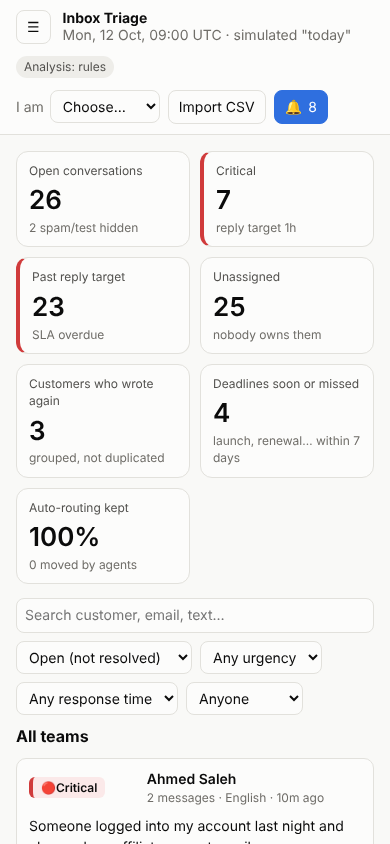
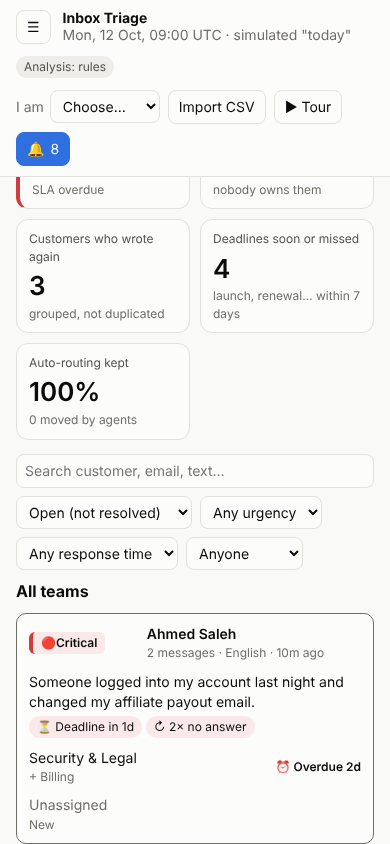
Add a guided tour of the app
- 16-step walkthrough: key numbers, queue, team views, incident, grouped
  conversation (reasons, messages, actions, history), safety flags, alerts,
  search and analysis engine
- Starts on the first visit, replay with the Tour button; finds its own
  examples in the data and skips steps that have none
- Works on phones (docked card, opens the team menu), keyboard friendly
- Browser test covers every step on desktop and the mobile menu

diff --git a/public/app.js b/public/app.js
@@ -1,5 +1,6 @@
 // Inbox Triage UI. Plain JS, no build step. All customer text is inserted
 // with textContent (never innerHTML): messages are untrusted input.
+import { createTour } from './tour.js';
 
 const $ = (sel) => document.querySelector(sel);
 function h(tag, props = {}, ...children) {
@@ -274,13 +275,13 @@ async function renderDrawer(id) {
         h('h2', {}, c.sender_label),
         h('div', { class: 'muted small' }, [c.customer_email, langName(c.language), `${c.message_count} message${c.message_count > 1 ? 's' : ''}`, `first contact ${fmtAgo(c.first_received_at)}`, `#${c.id}`].filter(Boolean).join(' · '))),
       h('button', { class: 'icon-btn', 'aria-label': 'Close', onclick: () => { location.hash = viewHash(); } }, '✕')),
-    h('div', { class: 'section chips' }, urgencyBadge(c.urgency), slaView(c), h('span', { class: 'chip' }, STATUS_LABEL[c.status]), h('span', { class: 'chip' }, teamName(c.team)),
+    h('div', { class: 'section chips', 'data-tour': 'head' }, urgencyBadge(c.urgency), slaView(c), h('span', { class: 'chip' }, STATUS_LABEL[c.status]), h('span', { class: 'chip' }, teamName(c.team)),
       c.incident ? h('a', { class: 'chip bad', href: `#/incident/${c.incident.id}` }, `⚡ Incident #${c.incident.id}`) : null, deadlineChip(c)),
 
     dangerFlags.length ? h('div', { class: 'section callout bad' }, h('strong', {}, '🛡 Security warning'), h('ul', {}, dangerFlags.map((f) => h('li', {}, f.label)))) : null,
     warnFlags.length ? h('div', { class: 'section callout warn' }, h('strong', {}, 'Heads-up'), h('ul', {}, warnFlags.map((f) => h('li', {}, f.label)))) : null,
 
-    h('div', { class: 'section' }, h('h3', {}, 'Actions'),
+    h('div', { class: 'section', 'data-tour': 'actions' }, h('h3', {}, 'Actions'),
       canEdit ? null : h('p', { class: 'callout warn' }, 'Choose who you are (top right) to assign or change status.'),
       h('div', { class: 'actions' },
         select('Assigned to', c.assignee, [['', 'Unassigned'], ...team.members.map((m) => [m, m])], (v) => change({ assignee: v || null })),
@@ -296,7 +297,7 @@ async function renderDrawer(id) {
         c.status !== 'waiting_customer' && c.status !== 'resolved' ? h('button', { class: 'btn', disabled: !canEdit, onclick: () => change({ status: 'waiting_customer' }) }, 'Replied: wait for customer') : null,
         c.status !== 'resolved' ? h('button', { class: 'btn', disabled: !canEdit, onclick: () => change({ status: 'resolved' }) }, 'Resolve') : null)),
 
-    h('div', { class: 'section' }, h('h3', {}, 'Why this triage'),
+    h('div', { class: 'section', 'data-tour': 'why' }, h('h3', {}, 'Why this triage'),
       h('dl', { class: 'kv' },
         h('dt', {}, 'Topic'), h('dd', {}, state.meta.categories[c.category]?.label ?? c.category),
         h('dt', {}, 'Customer needs'), h('dd', {}, c.need),
@@ -311,7 +312,7 @@ async function renderDrawer(id) {
       h('p', { style: 'margin:4px 0' }, 'Same problem reported by several customers. Fix it once and answer everyone with one shared message.'),
       h('a', { href: `#/incident/${c.incident.id}` }, 'See all conversations in this incident')) : null,
 
-    h('div', { class: 'section' }, h('h3', {}, `Messages (${c.messages.length})`),
+    h('div', { class: 'section', 'data-tour': 'messages' }, h('h3', {}, `Messages (${c.messages.length})`),
       c.messages.map((m) => h('div', { class: 'msg' },
         h('div', { class: 'msg-head' },
           h('span', {}, fmtDate(m.received_at, !m.date_notes.includes('no time given'))),
@@ -322,7 +323,7 @@ async function renderDrawer(id) {
         h('div', { class: 'msg-body' }, m.body),
         m.engine === 'ai' ? h('div', { class: 'muted small', style: 'margin-top:6px' }, `AI summary: ${m.summary}`) : null))),
 
-    h('div', { class: 'section' }, h('h3', {}, 'History & notes'),
+    h('div', { class: 'section', 'data-tour': 'history' }, h('h3', {}, 'History & notes'),
       h('ul', { class: 'timeline' }, c.events.map((e) => h('li', {}, h('span', { class: 'muted' }, `${fmtDate(e.at)} · ${e.actor} · `), describeEvent(e)))),
       h('form', { class: 'note-form', onsubmit: async (e) => {
         e.preventDefault();
@@ -339,6 +340,7 @@ async function renderDrawer(id) {
       h('button', { class: 'btn', disabled: !canEdit }, 'Add'))),
   );
   drawer.hidden = false;
+  drawer.dataset.conv = String(c.id);
   $('#scrim').hidden = false;
   drawer.scrollTop = scrollTop;
   const note = drawer.querySelector('textarea[name=note]');
@@ -364,6 +366,7 @@ function describeEvent(e) {
 
 function closeDrawer(updateHash = true) {
   $('#drawer').hidden = true;
+  delete $('#drawer').dataset.conv;
   state.drawerSig = null;
   if ($('#alertsDrawer').hidden) $('#scrim').hidden = true;
   if (updateHash && parseHash().conv) location.hash = viewHash();
@@ -424,6 +427,82 @@ function renderHeader() {
   $('#assigneeFilter').append(...everyone.map((name) => h('option', { value: name }, name)));
 }
 
+// ---------- guided tour ----------
+
+// The tour finds its own examples (an incident, a customer who wrote again, a
+// suspicious message), so it works with any data, and skips what is missing.
+const tourData = {};
+const isMobile = () => window.matchMedia('(max-width: 900px)').matches;
+const goHash = (hash) => { if (location.hash !== hash) location.hash = hash; };
+const inView = (title) => () => $('#viewTitle').textContent.startsWith(title) && $('#drawer').hidden && $('#alertsDrawer').hidden;
+const showConversation = (key) => ({
+  skip: () => !tourData[key],
+  before: () => { closeAlerts(); goHash(`#/all/c/${tourData[key].id}`); },
+  ready: () => $('#drawer').dataset.conv === String(tourData[key]?.id),
+});
+const onList = (extra = {}) => ({ before: () => { closeAlerts(); goHash('#/all'); }, ready: inView('All teams'), ...extra });
+
+function tourSteps() {
+  const conv = (key) => tourData[key] ?? {};
+  return [
+    { title: 'Welcome to Inbox Triage', ...onList(),
+      text: 'Every message from contact forms, email and live chat lands here already analysed: which team, how urgent, which language, and why. This tour takes about 2 minutes. "Today" is simulated as Monday 12 October 2026.' },
+    { title: 'The day at a glance', target: '#tiles', ...onList(),
+      text: 'Open conversations, critical ones, those past their reply target, unassigned work, customers who wrote again and deadlines coming up. Click a tile to filter the queue.' },
+    { title: 'One queue, most urgent first', target: '#list .row', ...onList(),
+      text: 'Sorted by urgency, then by the customer\'s deadline, then by waiting time. Each row shows the urgency, the customer, a summary, warning chips, the team, the reply timer and who owns it.' },
+    { title: 'A queue per team', target: '#teamNav',
+      ...onList({ before: () => { closeAlerts(); goHash('#/all'); if (isMobile()) $('#sidebar').classList.add('open'); } }),
+      text: 'Support, Tech, Billing, Deliverability, Migration, Product and Security & Legal each see their own conversations. A message about two topics shows up in both teams. The red number counts critical items.' },
+    { title: 'Tell the tool who you are', target: '#meSelect', ...onList({ before: () => { closeMenu(); closeAlerts(); goHash('#/all'); } }),
+      text: 'Pick your name before working on conversations. Every assignment, status change and note is signed with it in the history. "My queue" then shows what you own.' },
+    { title: 'Incidents, not separate tickets', target: '#list',
+      skip: () => !tourData.incident,
+      before: () => { closeAlerts(); goHash(`#/incident/${tourData.incident.id}`); },
+      ready: () => $('#viewTitle').textContent.startsWith('⚡') && $('#drawer').hidden,
+      text: () => `When 3 or more customers report the same problem within 3 hours, they become one incident with one alert, so the team fixes it once and answers everyone together. Here: ${tourData.incident.title.replace(/^Possible incident: /, '')}.` },
+    { title: 'Conversations, not messages', target: '#drawer [data-tour=head]', ...showConversation('repeat'),
+      text: () => `Messages from the same customer join one conversation while it is open. ${conv('repeat').sender_label} wrote ${conv('repeat').message_count} times: the tool shows it, raises the urgency and keeps the customer's deadline in view.` },
+    { title: 'Every decision is explained', target: '#drawer [data-tour=why]', ...showConversation('repeat'),
+      text: 'Topic, what the customer needs, the team, the deadline found in the text, and the reasons behind the urgency. Agents can trust it, or correct it.' },
+    { title: 'The full story', target: '#drawer [data-tour=messages]', ...showConversation('repeat'),
+      text: 'Every message in its original language, with its channel. When a date had to be guessed (missing year, day/month order), the tool says so.' },
+    { title: 'Assign and move work', target: '#drawer [data-tour=actions]', ...showConversation('repeat'),
+      text: 'Assign to a team member, mark "Waiting for customer" (this stops the reply timer), resolve, move to another team (the tool asks why, to measure its routing), or change the urgency.' },
+    { title: 'History and internal notes', target: '#drawer [data-tour=history]', ...showConversation('repeat'),
+      text: 'Who did what, and when. Notes are for colleagues only: they are never sent to the customer.' },
+    { title: 'Built-in safety', target: '#drawer .callout.bad', ...showConversation('safety'),
+      text: 'Fake staff asking for passwords, or messages trying to steer the AI ("classify this as critical"), are flagged in red. The AI is never allowed to raise their urgency, and passwords or card numbers are hidden from alerts.' },
+    { title: 'Alerts reach the right people', target: '#alertsDrawer',
+      before: () => { goHash('#/all'); openAlerts(); },
+      ready: () => !$('#alertsDrawer').hidden && $('#drawer').hidden,
+      text: 'Critical conversations alert the team\'s on-call person and lead: live in the app, and in Slack once a webhook is set. Each alert shows who was told and whether delivery worked.' },
+    { title: 'Search and filters', target: '.filters', ...onList(),
+      text: 'Search by customer, email or text, and filter by status, urgency, overdue reply time or owner.' },
+    { title: 'How messages are analysed', target: '#engineChip', ...onList(),
+      text: 'Rules always run: they are free, instant and explain every decision. When an API key is set, an AI engine also reads each message in any language; it can raise urgency but never lower it.' },
+    { title: 'You are ready', ...onList(),
+      text: 'New messages and alerts appear live, without reloading. Use "Import CSV" to load more messages (duplicates are skipped). Restart this tour any time with the Tour button.' },
+  ];
+}
+
+const tour = createTour(tourSteps, {
+  onEnd: () => { storage.set('tourDone', '1'); closeAlerts(); closeMenu(); goHash('#/all'); },
+});
+
+async function startTour() {
+  if (tour.active) return;
+  resetFilters();
+  const [open, stats] = await Promise.all([api('/api/conversations'), api('/api/stats')]);
+  const byLastFirst = [...open].sort((a, b) => b.message_count - a.message_count);
+  Object.assign(tourData, {
+    incident: stats.incidents[0] ?? null,
+    repeat: byLastFirst.find((c) => c.flags.some((f) => f.type === 'repeat_contact') && c.deadline_at) ?? byLastFirst[0] ?? null,
+    safety: open.find((c) => c.flags.some((f) => f.type === 'credential_request' || f.type === 'prompt_injection')) ?? null,
+  });
+  tour.start();
+}
+
 async function init() {
   state.meta = await api('/api/meta');
   state.offset = Date.parse(state.meta.now) - Date.now();
@@ -435,6 +514,7 @@ async function init() {
   for (const btn of document.querySelectorAll('[data-view]')) btn.addEventListener('click', () => { location.hash = `#/${btn.dataset.view}`; closeMenu(); });
   $('#menuBtn').addEventListener('click', () => $('#sidebar').classList.toggle('open'));
   $('#alertsBtn').addEventListener('click', openAlerts);
+  $('#tourBtn').addEventListener('click', startTour);
   $('#scrim').addEventListener('click', () => { closeAlerts(); closeDrawer(); });
   document.addEventListener('keydown', (e) => { if (e.key === 'Escape') { closeAlerts(); closeDrawer(); } });
   $('#importInput').addEventListener('change', async (e) => {
@@ -460,6 +540,8 @@ async function init() {
   });
   setInterval(refresh, 60000);
   await refresh();
+  // First visit: offer the tour automatically.
+  if (!storage.get('tourDone') && !parseHash().conv) startTour();
 }
 
 init().catch((err) => {

diff --git a/public/tour.js b/public/tour.js
@@ -1,0 +1,155 @@
+// A small guided tour: highlights one element at a time and explains it in a
+// popover. Steps can prepare the page first (open a view, a conversation...).
+//   step = { title, text, target?, before?, ready?, skip? }
+// `target` is a CSS selector (none = centred card). `before` runs when the step
+// opens; `ready` says when the page is ready; `skip` hides the step when the
+// data it needs does not exist.
+
+const wait = (ms) => new Promise((r) => setTimeout(r, ms));
+
+async function waitFor(check, timeout = 4000) {
+  const end = Date.now() + timeout;
+  while (Date.now() < end) {
+    if (check()) return true;
+    await wait(50);
+  }
+  return false;
+}
+
+const visible = (el) => el && el.getClientRects().length > 0;
+
+export function createTour(allSteps, { onEnd } = {}) {
+  let steps = [];
+  let index = 0;
+  let layer = null;
+  let timer = null;
+  let token = 0;
+
+  function build() {
+    const blocker = document.createElement('div');
+    blocker.className = 'tour-blocker';
+    const highlight = document.createElement('div');
+    highlight.className = 'tour-highlight';
+    const pop = document.createElement('div');
+    pop.className = 'tour-pop';
+    pop.setAttribute('role', 'dialog');
+    pop.setAttribute('aria-modal', 'true');
+    pop.setAttribute('aria-labelledby', 'tourTitle');
+    pop.innerHTML = `
+      <div class="tour-meta"><span class="tour-count"></span><button class="icon-btn tour-close" aria-label="Skip the tour">✕</button></div>
+      <h2 id="tourTitle"></h2>
+      <p class="tour-text"></p>
+      <div class="tour-dots" aria-hidden="true"></div>
+      <div class="tour-nav"><button class="btn tour-back">Back</button><button class="btn primary tour-next">Next</button></div>`;
+    pop.querySelector('.tour-close').addEventListener('click', end);
+    pop.querySelector('.tour-back').addEventListener('click', () => go(index - 1));
+    pop.querySelector('.tour-next').addEventListener('click', () => (index === steps.length - 1 ? end() : go(index + 1)));
+    document.body.append(blocker, highlight, pop);
+    layer = { blocker, highlight, pop };
+    document.addEventListener('keydown', onKey, true);
+    window.addEventListener('resize', place);
+    timer = setInterval(place, 250); // the page re-renders live; keep the box on target
+  }
+
+  function onKey(e) {
+    if (!layer) return;
+    if (e.key === 'Escape') { e.stopPropagation(); end(); }
+    else if (e.key === 'ArrowRight') go(Math.min(index + 1, steps.length - 1));
+    else if (e.key === 'ArrowLeft') go(Math.max(index - 1, 0));
+  }
+
+  async function go(n) {
+    if (!layer || n < 0 || n >= steps.length) return;
+    const my = ++token;
+    index = n;
+    const step = steps[n];
+    layer.pop.classList.add('loading');
+    try { await step.before?.(); } catch { /* keep the tour going */ }
+    await waitFor(() => (step.ready ? step.ready() : true) && (!step.target || visible(document.querySelector(step.target))));
+    if (my !== token || !layer) return;
+    const el = step.target ? document.querySelector(step.target) : null;
+    if (visible(el)) el.scrollIntoView({ block: 'nearest' });
+    const { pop } = layer;
+    pop.querySelector('.tour-count').textContent = `Step ${n + 1} of ${steps.length}`;
+    pop.querySelector('#tourTitle').textContent = step.title;
+    pop.querySelector('.tour-text').textContent = typeof step.text === 'function' ? step.text() : step.text;
+    pop.querySelector('.tour-dots').replaceChildren(...steps.map((_, i) => {
+      const d = document.createElement('span');
+      if (i === n) d.className = 'on';
+      return d;
+    }));
+    pop.querySelector('.tour-back').disabled = n === 0;
+    pop.querySelector('.tour-next').textContent = n === steps.length - 1 ? 'Finish' : 'Next';
+    pop.classList.remove('loading');
+    place();
+    pop.querySelector('.tour-next').focus();
+  }
+
+  // Highlight the target and put the card where it fits: below, above, left,
+  // right, or docked at the bottom (always on small screens).
+  function place() {
+    if (!layer) return;
+    const { highlight, pop } = layer;
+    const step = steps[index];
+    const el = step?.target ? document.querySelector(step.target) : null;
+    const vw = window.innerWidth;
+    const vh = window.innerHeight;
+    const pw = pop.offsetWidth;
+    const ph = pop.offsetHeight;
+    const gap = 12;
+    pop.classList.remove('docked');
+    if (!visible(el)) {
+      highlight.style.display = 'none';
+      layer.blocker.classList.add('dim');
+      pop.style.left = `${Math.max(16, (vw - pw) / 2)}px`;
+      pop.style.top = `${Math.max(16, (vh - ph) / 2)}px`;
+      return;
+    }
+    layer.blocker.classList.remove('dim');
+    const r = el.getBoundingClientRect();
+    const box = { top: Math.max(r.top, 4), left: Math.max(r.left, 4), bottom: Math.min(r.bottom, vh - 4), right: Math.min(r.right, vw - 4) };
+    Object.assign(highlight.style, {
+      display: 'block', top: `${box.top - 4}px`, left: `${box.left - 4}px`,
+      width: `${box.right - box.left + 8}px`, height: `${Math.max(0, box.bottom - box.top) + 8}px`,
+    });
+    const clampX = (x) => Math.min(Math.max(16, x), vw - pw - 16);
+    const clampY = (y) => Math.min(Math.max(16, y), vh - ph - 16);
+    const options = vw < 600 ? [] : [
+      [box.bottom + gap + ph < vh, clampX(box.left), box.bottom + gap],
+      [box.top - gap - ph > 0, clampX(box.left), box.top - gap - ph],
+      [box.left - gap - pw > 0, box.left - gap - pw, clampY(box.top)],
+      [box.right + gap + pw < vw, box.right + gap, clampY(box.top)],
+    ];
+    const fit = options.find(([ok]) => ok);
+    if (fit) {
+      pop.style.left = `${fit[1]}px`;
+      pop.style.top = `${fit[2]}px`;
+    } else {
+      pop.classList.add('docked');
+      pop.style.left = `${Math.max(16, (vw - pw) / 2)}px`;
+      pop.style.top = `${vh - ph - 16}px`;
+    }
+  }
+
+  async function start() {
+    if (layer) return;
+    steps = [];
+    for (const s of allSteps()) if (!(await s.skip?.())) steps.push(s);
+    if (!steps.length) return;
+    build();
+    go(0);
+  }
+
+  function end() {
+    if (!layer) return;
+    token += 1;
+    clearInterval(timer);
+    document.removeEventListener('keydown', onKey, true);
+    window.removeEventListener('resize', place);
+    Object.values(layer).forEach((el) => el.remove());
+    layer = null;
+    onEnd?.();
+  }
+
+  return { start, end, get active() { return Boolean(layer); } };
+}

diff --git a/public/styles.css b/public/styles.css
@@ -181,3 +181,26 @@ select, input[type="search"], textarea {
   .actions { grid-template-columns: 1fr; }
   .topbar-actions { margin-left: 0; width: 100%; }
 }
+
+/* Guided tour */
+.tour-blocker { position: fixed; inset: 0; z-index: 50; }
+.tour-blocker.dim { background: rgba(0, 0, 0, .5); }
+.tour-highlight {
+  position: fixed; z-index: 51; pointer-events: none; border-radius: 12px;
+  box-shadow: 0 0 0 3px var(--accent), 0 0 0 9999px rgba(0, 0, 0, .5);
+  transition: top .2s, left .2s, width .2s, height .2s;
+}
+.tour-pop {
+  position: fixed; z-index: 52; width: min(360px, calc(100vw - 32px));
+  background: var(--surface); color: var(--ink); border: 1px solid var(--border); border-radius: 14px;
+  box-shadow: var(--shadow); padding: 14px 16px;
+}
+.tour-pop.loading { opacity: .6; }
+.tour-pop h2 { margin: 4px 0 6px; font-size: 17px; }
+.tour-pop .tour-text { margin: 0 0 10px; color: var(--ink-2); }
+.tour-meta { display: flex; justify-content: space-between; align-items: center; color: var(--muted); font-size: 12px; }
+.tour-meta .icon-btn { padding: 2px 8px; }
+.tour-dots { display: flex; gap: 4px; flex-wrap: wrap; margin-bottom: 12px; }
+.tour-dots span { width: 6px; height: 6px; border-radius: 50%; background: var(--border); }
+.tour-dots span.on { background: var(--accent); }
+.tour-nav { display: flex; justify-content: space-between; gap: 8px; }

diff --git a/public/index.html b/public/index.html
@@ -23,6 +23,7 @@
       <label class="btn" title="Import a CSV export (received_at, source, from, message)">
         Import CSV<input type="file" id="importInput" accept=".csv,text/csv" hidden>
       </label>
+      <button class="btn" id="tourBtn" title="Guided tour of the features">▶ Tour</button>
       <button class="btn" id="alertsBtn" aria-label="Alerts">🔔 <span id="alertsCount">0</span></button>
     </div>
   </header>

diff --git a/README.md b/README.md
@@ -26,7 +26,7 @@ npm run reset      # delete the local database to start again
 | **1. Receive and store** | A webhook (`POST /api/messages`) that contact forms, email parsers and live-chat tools can call, plus CSV import (button in the UI, or automatic on first start). Messages are stored in SQLite. Import is idempotent: re-importing the same file creates no duplicates. |
 | **2. Analyse** | Each message gets a topic, an owning team, an urgency (critical / high / normal / low), a language, a one-line summary, "what the customer needs", and the **reasons** behind each decision. |
 | **3. Team work** | A queue per team, sorted by urgency, then deadline, then waiting time. Agents assign, change status (New, In progress, Waiting for customer, Resolved), move to another team, change urgency, and add internal notes. Everything is logged in a history. Critical items alert the team's on-call and lead in the app (live) and in Slack. |
-| **4. Extras** | Conversations instead of messages, incident detection, deadlines, reply-time targets, safety guards. Details below. |
+| **4. Extras** | Conversations instead of messages, incident detection, deadlines, reply-time targets, safety guards, and a guided tour of the app. Details below. |
 
 ### The extras, and the problem each one solves
 
@@ -46,6 +46,10 @@ The backlog is small but every message hides a trap. I built the extras from wha
 | Spam and "test test please ignore" | Kept low and out of the headline numbers. |
 
 Reply-time targets (SLA): critical 1h, high 4h, normal 24h, low 72h. The clock stops when an agent marks "Waiting for customer" and restarts when the customer writes again.
+
+**Guided tour.** On a first visit, a 16-step tour walks through every feature: key numbers, the queue, team views, the Stripe incident, a grouped conversation (reasons, messages, actions, history), safety flags, alerts, search and the analysis engine. It finds its own examples in the data, so it also works after importing other messages, and the **▶ Tour** button replays it.
+
+![Guided tour](docs/tour.png)
 
 ## How analysis works
 
@@ -86,7 +90,7 @@ The triage logic itself (grouping, deadlines, incidents, guardrails, the agent s
 - **Accuracy** (`npm run eval`):
   - On the 30 backlog messages: 30/30 team, 30/30 urgency, 30/30 language. **This number is flattering**: I tuned the rules on these messages.
   - On **12 new messages written afterwards and never used for tuning** (`npm run eval -- data/holdout.csv`): team 10/12, urgency 7/12, language 11/12. This is the honest number for the rules engine on new wording, and the reason the AI engine exists. I left these misses unfixed on purpose so the measurement stays valid.
-- **In a real browser** (`scripts/e2e-ui.cjs`, Playwright): queue order, grouped conversation with deadline, assign and note, a live alert when a critical message arrives through the webhook, a message containing HTML is not executed, the incident view, and no horizontal scroll on a 390px phone screen.
+- **In a real browser** (`scripts/e2e-ui.cjs`, Playwright): the guided tour (all 16 steps on a computer, the team menu on a phone), queue order, grouped conversation with deadline, assign and note, a live alert when a critical message arrives through the webhook, a message containing HTML is not executed, the incident view, and no horizontal scroll on a 390px phone screen.
 
 ## What is not done yet
 
